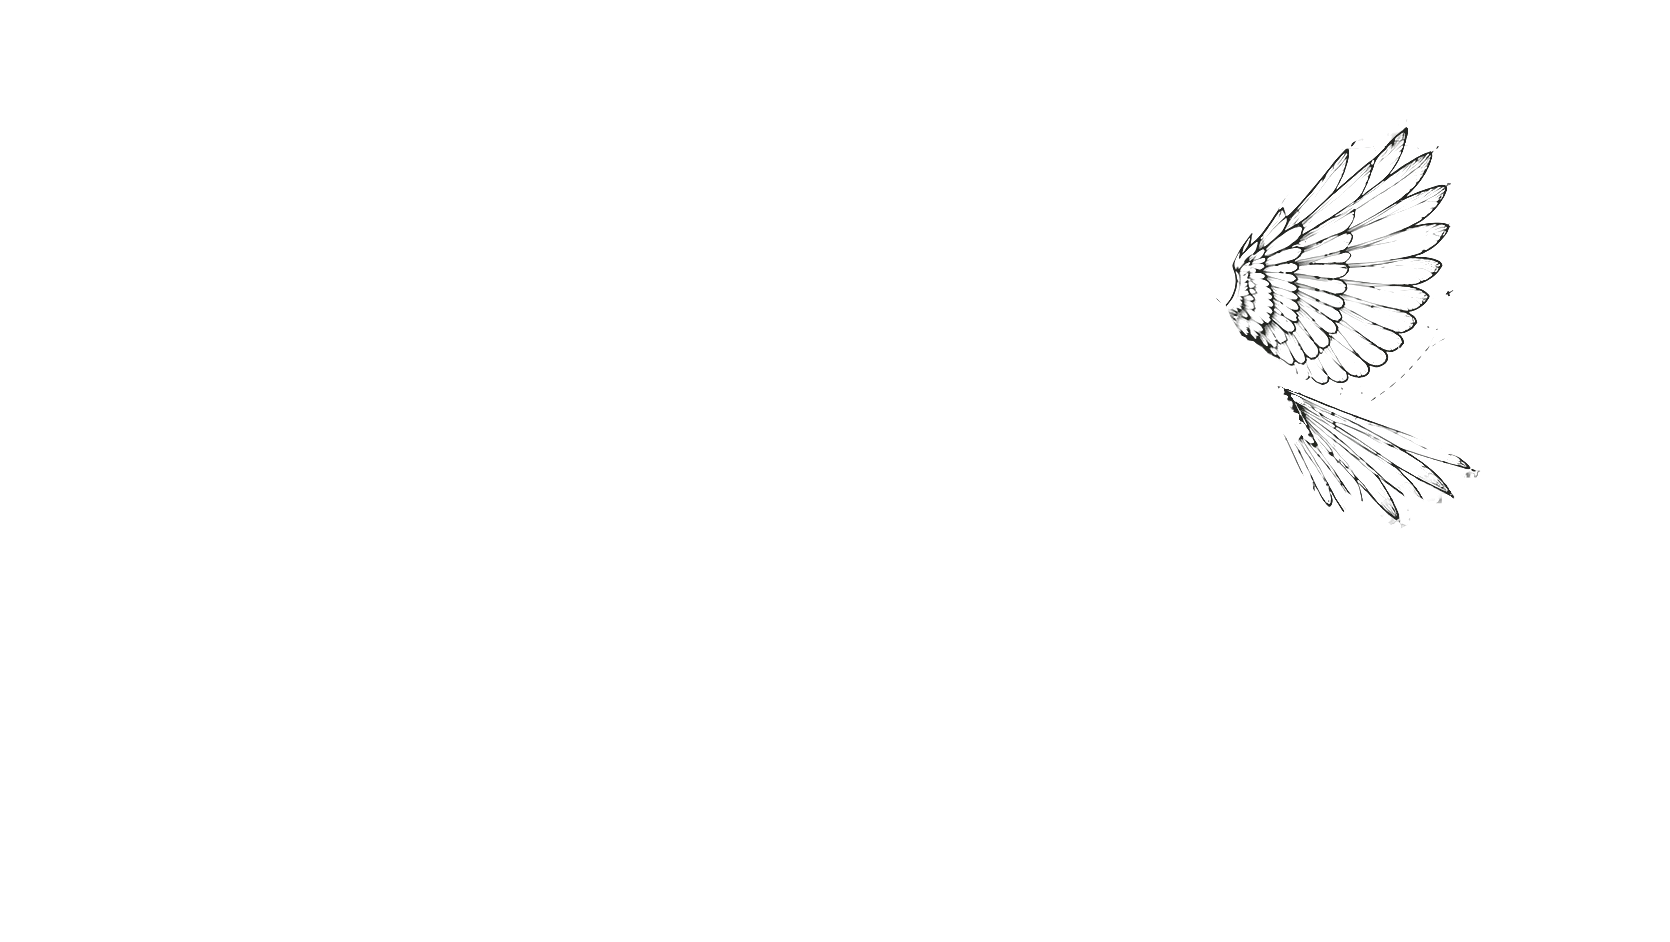
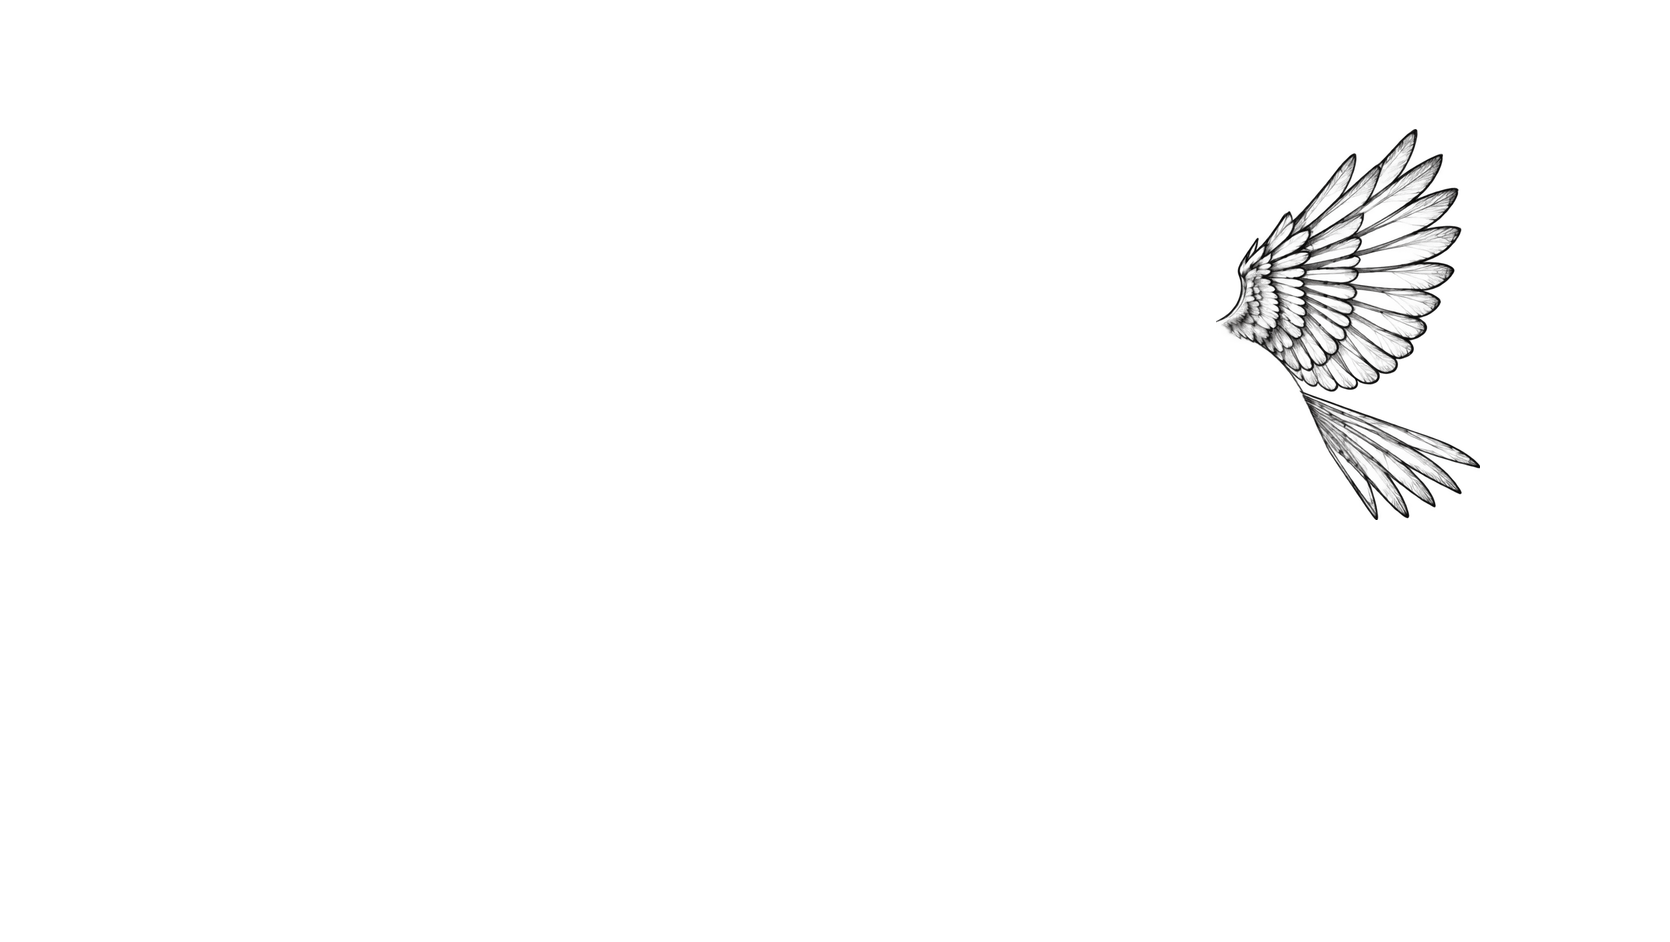
feat(landing): girl, kids group and bird from susan's idea-pop-hero folder
Her L06 girl, L07 kids group and L11/L12 bird body and pencil wings were
generated larger and elsewhere on the canvas, so each is cropped to its
picture and scaled into exactly the box the scene used (same bottom edge for
the girl and kids), lossless WebP. Asset version bumped.

Changed region(s): [[0.7162, 0.1231, 0.903, 0.5541]]

diff --git a/frontend/src/app/[locale]/(marketing)/_components/HeroScene.tsx b/frontend/src/app/[locale]/(marketing)/_components/HeroScene.tsx
@@ -25,7 +25,7 @@ const DURATION_MS = 22800;
 const CAMERA_MS = 3960;
 const AIM = { x: 1227, y: 496 };
 // bump when the designer delivers corrected artwork, so no browser keeps an older cached copy
-const REV = "hero-2026-10-14";
+const REV = "hero-2026-10-14b";
 const src = (name: string) => `/landing/hero-final/${name}.webp?v=${REV}`;
 
 const clamp01 = (x: number) => Math.max(0, Math.min(1, x));
